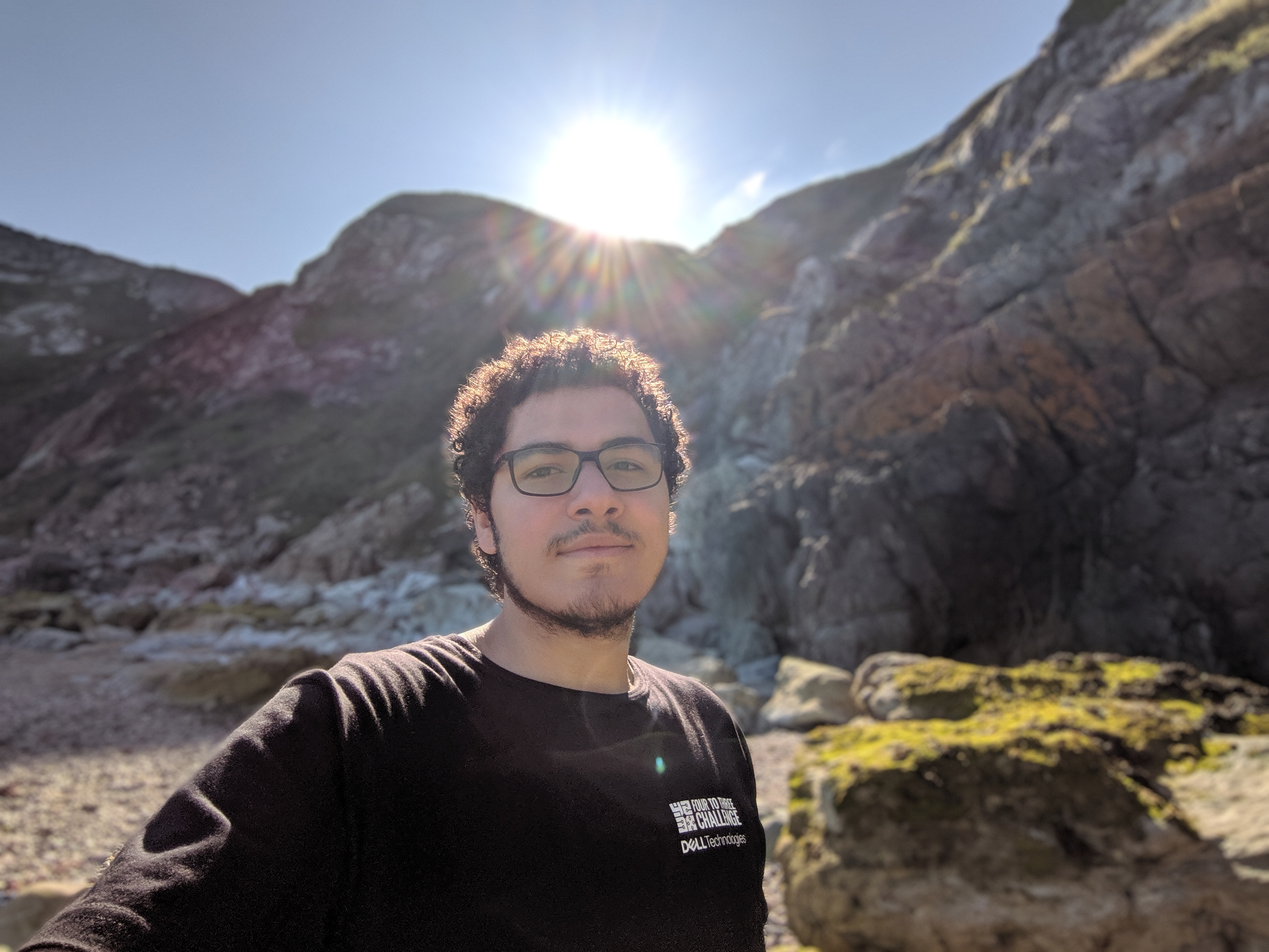
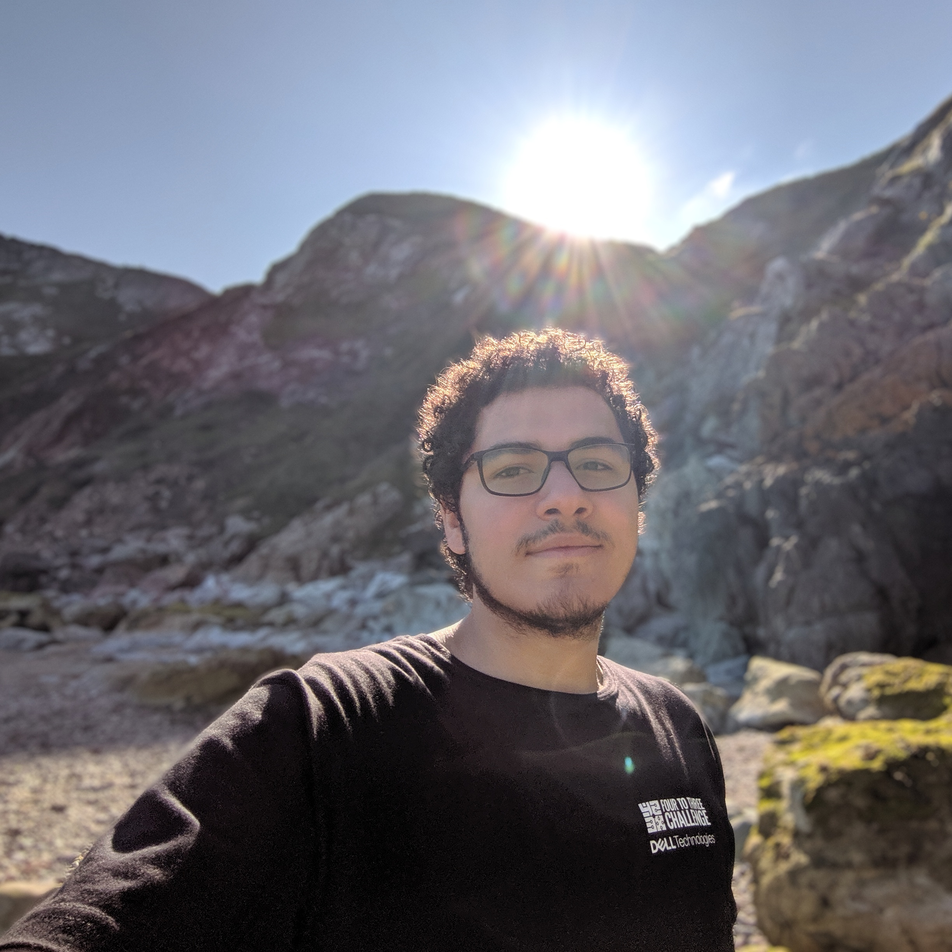
edit the photo size

diff --git a/_data/ahmedakef/ahmedakef.md b/_data/ahmedakef/ahmedakef.md
@@ -1,7 +1,7 @@
 ---
 name: ahmedakef # No longer than 28 characters
-institution: Mansoura University - Faculty of Engineering 🚩 # no longer than 58 characters
+institution: Mansoura University - Faculty of Engineering # no longer than 58 characters
 profile_pic: ahmedakef.jpg # Name and extension of your profile picture(ex. mona.png)
-quote: YOUR-SENIOR-QUOTE # no longer than 100 characters
-github_user: YOUR-GITHUB-USERNAME
+quote: failures are the norm rather than exception # no longer than 100 characters
+github_user: ahmedakef
 ---
